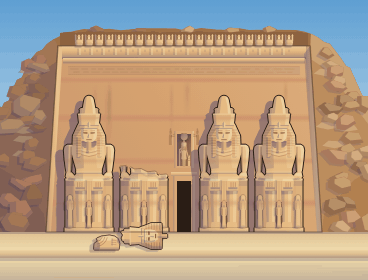
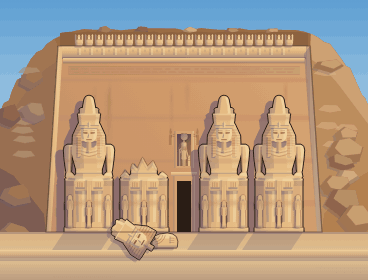
Abu Simbel pilot: the five things that were weak
The designer kept the flat brochure style and asked for the fix pass before the
pilot becomes the pattern for the other eleven.

- The broken colossus read as a smashed crate: its break ran flat across the full
  width of the throne. It now follows the body: the throne and lap stay whole to
  the seat, and above them only a ragged stump of the waist stands, narrower than
  the throne, in a few sharp facets rather than soft bumps.
- The fallen head read as a bottle, laid on its side and squashed. It is the
  statue's own head at full size now, tipped over toward the south onto its nemes
  with the face still turned out: nemes stripes, face and beard all read.
- The bottom fifth was empty stripes, and the brightest thing in the plate. The
  terrace and forecourt are a step below the statues' lit faces now, and the four
  colossi throw their shadows forward and left across the floor.
- The rock-fill flanks were small faceted polygons, mottled at 92 x 70. Fewer and
  larger blocks now, and the shaded south flank is warm rock, not grey mauve.
- The colossi sat on the same value as the wall and melted into it at small size.
  The wall is a clear step darker, so the statues stand forward of it.

21 kB to 16 kB. Still not in the manifest.

Claude-Session: https://claude.ai/code/session_012jesjDfJod959XFAdYMv3X

diff --git a/tools/monument-painters/abu-simbel.js b/tools/monument-painters/abu-simbel.js
@@ -209,7 +209,7 @@ PAINTERS['abu-simbel'] = function (ctx, W, H, B) {
   const flankL = edge.filter((p) => p[0] <= FL + LEAN).concat([[FL + LEAN, TOP], [FL, GY + 2], [0, GY + 2]]);
   const flankR = [[FR - LEAN, TOP]].concat(edge.filter((p) => p[0] >= FR - LEAN), [[368, GY + 2], [FR, GY + 2]]);
   const RIM = mixh(S.rubble, S.rubbleDark, 0.28);
-  const TONE_L = shd(mixh(S.rubble, S.rubbleDark, 0.18), 0.3);
+  const TONE_L = shd(mixh(S.rubble, S.rubbleDark, 0.12), 0.18);
   const TONE_R = lit(S.rubble, 0.12);
   B.fill(ctx, hill, RIM);
   B.fill(ctx, flankL, TONE_L);
@@ -257,14 +257,14 @@ PAINTERS['abu-simbel'] = function (ctx, W, H, B) {
     const r = B.rng(2604);
     const rocks = [];
     // A jittered grid: even cover without rows.
-    for (let gy = 28; gy < GY + 6; gy += 10) {
+    for (let gy = 30; gy < GY + 6; gy += 17) {
       const big = Math.max(0, (gy - 50) / (GY - 50));
-      const step = 16 + big * 6;
+      const step = 27 + big * 8;
       for (let gx = -6 + (Math.floor(gy / 10) % 2) * step * 0.5; gx < W + 8; gx += step) {
         const x = gx + (r() - 0.5) * step * 0.9;
         const yy = gy + (r() - 0.5) * 10;
         const slab = r() < 0.4;
-        const w = 7 + r() * 4 + big * 4 + (r() < 0.15 ? 4 : 0) + (slab ? 2 : 0);
+        const w = 11 + r() * 5 + big * 5 + (slab ? 3 : 0);
         const h = w * (slab ? 0.42 + r() * 0.12 : 0.66 + r() * 0.26);
         const ang = (r() - 0.5) * (slab ? 0.7 : 0.3);
         const seed = Math.floor(r() * 1e6);
@@ -274,7 +274,7 @@ PAINTERS['abu-simbel'] = function (ctx, W, H, B) {
         if (x + w * 0.9 + 3 > edgeL(yy) && x - w * 0.9 - 3 < edgeR(yy)) continue;
         // Thinning toward the frame: texture, not pattern.
         const d = Math.min(x, W - x);
-        if (r() > 0.35 + d / 45) continue;
+        if (r() > 0.25 + d / 60) continue;
         rocks.push([x, yy, w, h, ang, seed]);
       }
     }
@@ -312,7 +312,8 @@ PAINTERS['abu-simbel'] = function (ctx, W, H, B) {
   // sandstone with its statues. It rises well above the crowns. In the morning
   // sun it glows: half a step below the colossi, not a muddy ground.
 
-  const WALL = mixh(mixh(S.sun, S.body, 0.5), S.rose, 0.1);
+  // A clear step below the colossi, so the statues stand forward of it at 92 x 70.
+  const WALL = mixh(mixh(S.sun, S.body, 0.74), S.rose, 0.16);
   {
     const g = ctx.createLinearGradient(FL, GY, FR, TOP);
     g.addColorStop(0, shd(WALL, 0.1));
@@ -711,7 +712,11 @@ PAINTERS['abu-simbel'] = function (ctx, W, H, B) {
   // their upper faces catching the sun, the lip soft.
   // High on the south side over the stump of the left arm, falling in a few
   // big steps to the right: its broken top turns up toward the sun.
-  const BREAK = [[-27, 66.6], [-22.5, 65.4], [-16, 66.2], [-9.5, 62.4], [-3, 63], [3.5, 59.8], [11, 60.4], [16.5, 57], [22, 57.6], [27, 56.2]];
+  // The throne and the lap stay whole to the seat; above them only the stump
+  // of the waist stands, narrower than the throne, ragged, higher in the
+  // middle than at the arms. That is what makes it a broken statue and not a
+  // broken box.
+  const BREAK = [[-27, 54.4], [-23, 56.2], [-18.5, 61.5], [-15, 58.8], [-11.5, 68.5], [-6.5, 63.6], [-1.5, 74.5], [3.5, 65.4], [9, 71.2], [14, 61.4], [18.5, 60.2], [23, 56.4], [27, 54.4]];
   const broken = B.layer(LW, LH);
   const toLayer = (pts) => pts.map((p) => [LOX + p[0], LOY - p[1]]);
   {
@@ -872,15 +877,21 @@ PAINTERS['abu-simbel'] = function (ctx, W, H, B) {
 
   {
     const g = ctx.createLinearGradient(0, GY, 0, FLOOR);
-    g.addColorStop(0, mixh(S.sand, S.body, 0.3));
-    g.addColorStop(1, lit(S.sand, 0.25));
+    // A step below the statues' lit faces, so the eye stays on the facade.
+    g.addColorStop(0, mixh(S.sand, S.body, 0.55));
+    g.addColorStop(1, mixh(S.sand, S.body, 0.32));
     ctx.fillStyle = g;
     ctx.fillRect(0, GY, W, FLOOR - GY);
+    // The colossi throw their shadows forward and to the left across the floor.
+    for (let i = 0; i < 4; i++) {
+      const x = CX[i];
+      wash(ctx, [[x - 25, GY], [x + 24, GY], [x + 12, FLOOR], [x - 37, FLOOR]], SHADOW, 0.2);
+    }
     // A line of shadow where the facade meets the floor.
     wash(ctx, [[0, GY], [W, GY], [W, GY + 2], [0, GY + 2]], SHADOW, 0.25);
-    roll(ctx, [[0, FLOOR], [W, FLOOR], [W, LEDGE], [0, LEDGE]], mixh(S.sand, S.body, 0.3));
+    roll(ctx, [[0, FLOOR], [W, FLOOR], [W, LEDGE], [0, LEDGE]], mixh(S.sand, S.body, 0.5));
     line(ctx, 0, FLOOR + 0.5, W, FLOOR + 0.5, 1, B.alpha(HI, 0.8));
-    B.ground(ctx, W, H, LEDGE, S.sand);
+    B.ground(ctx, W, H, LEDGE, mixh(S.sand, S.body, 0.45));
     wash(ctx, [[0, LEDGE], [W, LEDGE], [W, LEDGE + 3], [0, LEDGE + 3]], SHADOW, 0.22);
     // Paving, barely.
     const r = B.rng(58);
@@ -897,30 +908,36 @@ PAINTERS['abu-simbel'] = function (ctx, W, H, B) {
   // size: it lies on its side, crown to the south, tipped back so its face
   // looks out and up; the white crown is broken off above the red.
   {
-    const K = 0.8; // how far it is tipped: the width of the head foreshortened
-    const head = B.layer(56, 34);
+    // It has rolled onto the side of its nemes, crown to the south, and lies
+    // tipped well over with the face still turned out to us, so it reads as
+    // a head at any size. Drawn full size on a plate-sized layer.
+    const T = -1.02; // radians the head is tipped over, toward the south
+    const ct = Math.cos(T);
+    const st = Math.sin(T);
+    // Where the break at the neck (h = 84) comes to rest on the floor.
+    const NX = 150;
+    const NY = 247;
+    const head = B.layer(W, H);
     {
       const c = head.getContext('2d');
       c.save();
-      // Upright (x, h) to the picture: h runs to the left, x runs up.
-      c.setTransform(0, -K, -1, 0, 26 + 104, 17);
+      // Upright (x, h) to the picture, rotated by T about the neck.
+      c.setTransform(ct, st, st, -ct, NX - 84 * st, NY + 84 * ct);
       paintHead(c, { stump: true, bold: true });
-      // The old break at the neck, weathered: the end of the beard and the
-      // nemes, a little shade, no fresh edge.
       wash(c, [[-16.4, 86.6], [16.4, 86.6], [16.4, 88.6], [-16.4, 88.6]], SHADOW, 0.16);
       c.restore();
-      // Light in the picture: its top toward the sun, its underside on the ground.
+      // Its top toward the sun, its underside on the ground.
       c.save();
       c.globalCompositeOperation = 'source-atop';
-      const g = c.createLinearGradient(0, 2, 0, 32);
+      const g = c.createLinearGradient(0, 200, 0, 250);
       g.addColorStop(0, B.alpha(SUN, 0.14));
-      g.addColorStop(0.45, B.alpha(SUN, 0));
-      g.addColorStop(0.75, B.alpha(SHADOW, 0));
+      g.addColorStop(0.5, B.alpha(SUN, 0));
+      g.addColorStop(0.8, B.alpha(SHADOW, 0));
       g.addColorStop(1, B.alpha(SHADOW, 0.3));
       c.fillStyle = g;
-      c.fillRect(0, 0, 56, 34);
+      c.fillRect(0, 0, W, H);
       c.restore();
-      inkRound(head, 0.8);
+      inkRound(head, 0.9);
     }
     // The torso: a chunk of the right shoulder and chest, the end of a nemes
     // lappet on it and the rows of the broad collar. Flat on the terrace.
@@ -952,7 +969,7 @@ PAINTERS['abu-simbel'] = function (ctx, W, H, B) {
       c.restore();
       inkRound(torso, 0.7);
     }
-    for (const [img, x, y] of [[torso, 92, 232], [head, 118, 219]]) {
+    for (const [img, x, y] of [[torso, 150, 230], [head, 0, 0]]) {
       ctx.save();
       ctx.globalAlpha = 0.3;
       ctx.drawImage(silhouette(img, SHADOW), x - 4, y + 2);
